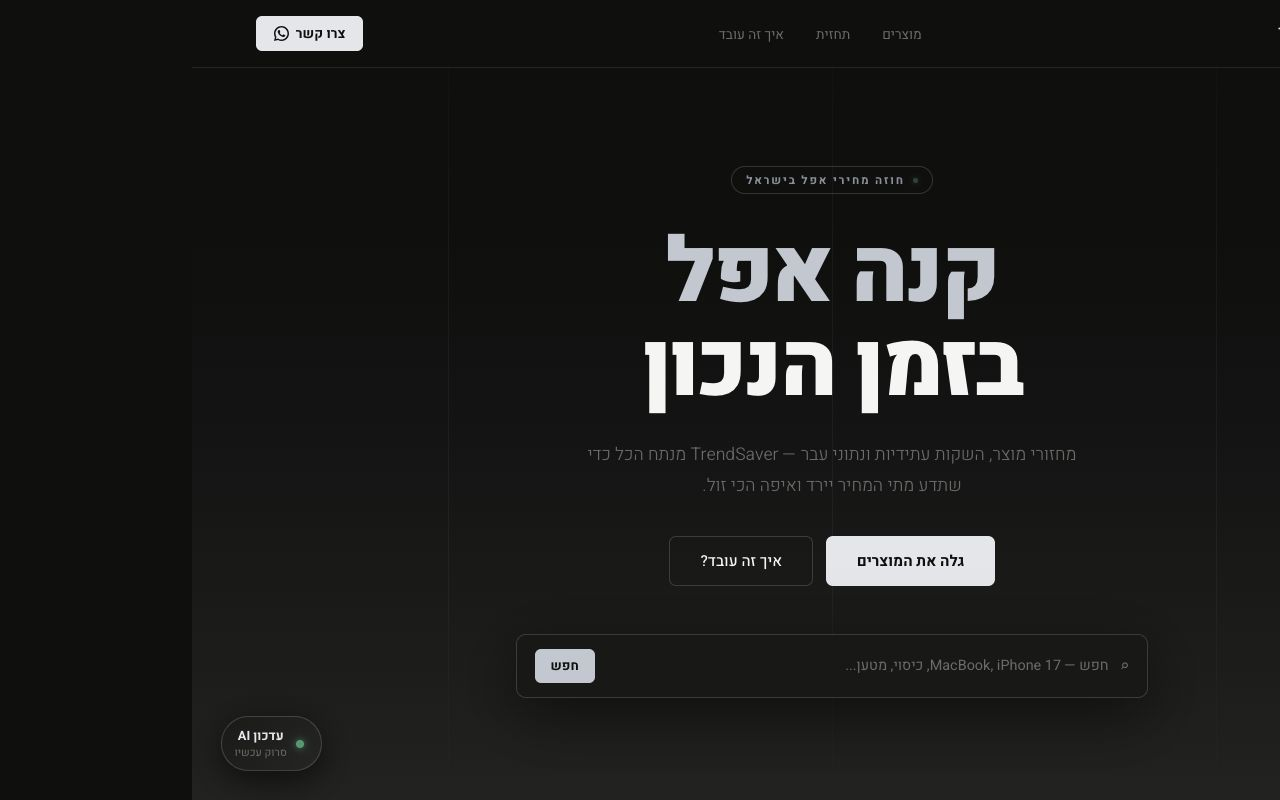
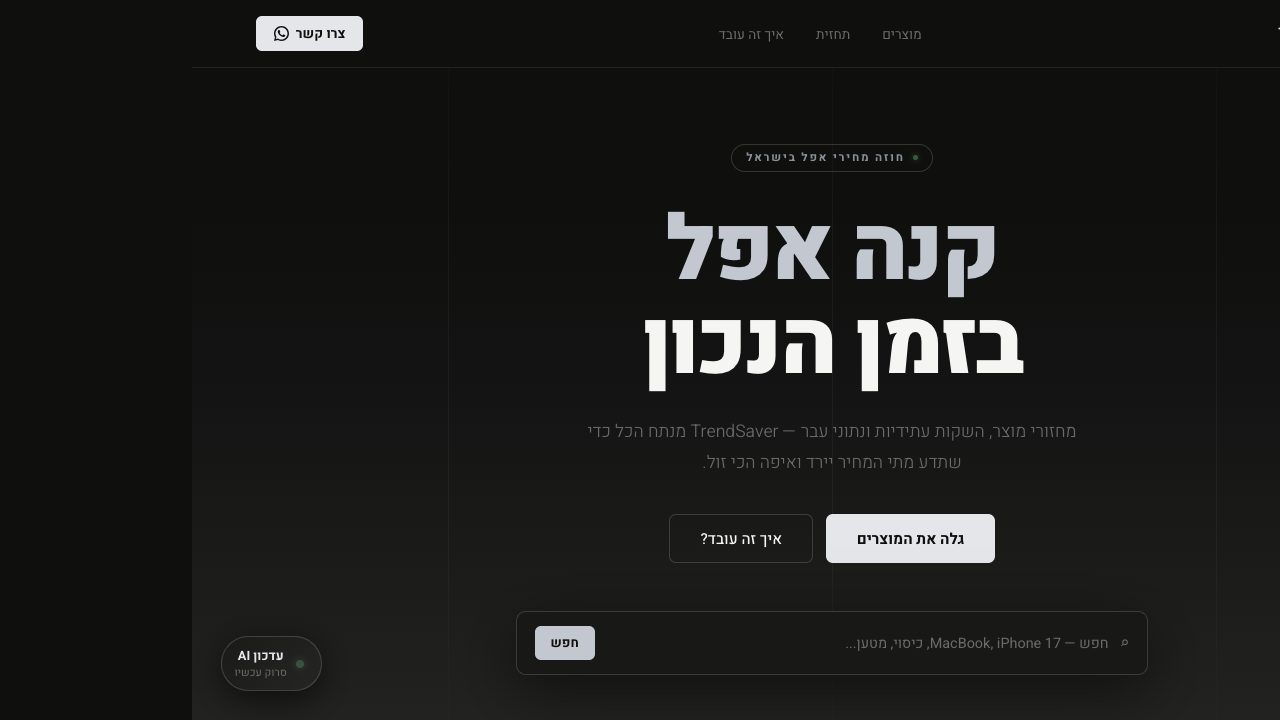
Reshoot previews at 1280x720 (16:9 classic)
Tighter hero focus, less empty space than 1280x800.

diff --git a/index.html b/index.html
@@ -3196,7 +3196,7 @@
         </div>
         <div class="proj-grid">
             <a href="https://ai-lab.co.il/build-pc/" target="_blank" rel="noopener" class="proj-card">
-                <div class="proj-preview"><img src="/project-previews/build-pc.jpg" alt="BUILD PC" loading="lazy" decoding="async" width="1280" height="800"></div>
+                <div class="proj-preview"><img src="/project-previews/build-pc.jpg" alt="BUILD PC" loading="lazy" decoding="async" width="1280" height="720"></div>
                 <div class="proj-info">
                     <div class="proj-name">🖥 BUILD PC — השווה, חסוך, שדרג</div>
                     <div class="proj-student">רואי, בן 13</div>
@@ -3204,7 +3204,7 @@
                 </div>
             </a>
             <a href="https://ai-lab.co.il/spot/" target="_blank" rel="noopener" class="proj-card">
-                <div class="proj-preview"><img src="/project-previews/spot.jpg" alt="SPOT - כל כלב ביומו" loading="lazy" decoding="async" width="1280" height="800"></div>
+                <div class="proj-preview"><img src="/project-previews/spot.jpg" alt="SPOT - כל כלב ביומו" loading="lazy" decoding="async" width="1280" height="720"></div>
                 <div class="proj-info">
                     <div class="proj-name">🐕 SPOT — כל כלב ביומו</div>
                     <div class="proj-student">מתן, בן 10</div>
@@ -3212,7 +3212,7 @@
                 </div>
             </a>
             <a href="https://ai-lab.co.il/free-movie-trailers/" target="_blank" rel="noopener" class="proj-card">
-                <div class="proj-preview"><img src="/project-previews/free-movie-trailers.jpg" alt="Free Movie Trailers" loading="lazy" decoding="async" width="1280" height="800"></div>
+                <div class="proj-preview"><img src="/project-previews/free-movie-trailers.jpg" alt="Free Movie Trailers" loading="lazy" decoding="async" width="1280" height="720"></div>
                 <div class="proj-info">
                     <div class="proj-name">🎬 Free Movie Trailers</div>
                     <div class="proj-student">תאיי, בן 12</div>
@@ -3220,7 +3220,7 @@
                 </div>
             </a>
             <a href="https://ai-lab.co.il/trendsaver/" target="_blank" rel="noopener" class="proj-card">
-                <div class="proj-preview"><img src="/project-previews/trendsaver.jpg" alt="TrendSaver" loading="lazy" decoding="async" width="1280" height="800"></div>
+                <div class="proj-preview"><img src="/project-previews/trendsaver.jpg" alt="TrendSaver" loading="lazy" decoding="async" width="1280" height="720"></div>
                 <div class="proj-info">
                     <div class="proj-name">📈 TrendSaver — קנה חכם</div>
                     <div class="proj-student">ארבל, בן 12</div>
@@ -3228,7 +3228,7 @@
                 </div>
             </a>
             <a href="https://ai-lab.co.il/nadavlego/" target="_blank" rel="noopener" class="proj-card">
-                <div class="proj-preview"><img src="/project-previews/nadavlego.jpg" alt="חגיגת לגו" loading="lazy" decoding="async" width="1280" height="800"></div>
+                <div class="proj-preview"><img src="/project-previews/nadavlego.jpg" alt="חגיגת לגו" loading="lazy" decoding="async" width="1280" height="720"></div>
                 <div class="proj-info">
                     <div class="proj-name">🧱 חגיגת לגו</div>
                     <div class="proj-student">נדב, בן 10</div>
@@ -3236,7 +3236,7 @@
                 </div>
             </a>
             <a href="https://ai-lab.co.il/hairmatch/" target="_blank" rel="noopener" class="proj-card">
-                <div class="proj-preview"><img src="/project-previews/hairmatch.jpg" alt="HairMatch" loading="lazy" decoding="async" width="1280" height="800"></div>
+                <div class="proj-preview"><img src="/project-previews/hairmatch.jpg" alt="HairMatch" loading="lazy" decoding="async" width="1280" height="720"></div>
                 <div class="proj-info">
                     <div class="proj-name">✨ HairMatch — טיפוח חכם</div>
                     <div class="proj-student">נועם, בת 13.5</div>
@@ -3244,7 +3244,7 @@
                 </div>
             </a>
             <a href="https://ai-lab.co.il/horse-fashion/" target="_blank" rel="noopener" class="proj-card">
-                <div class="proj-preview"><img src="/project-previews/horse-fashion.jpg" alt="Horse Fashion" loading="lazy" decoding="async" width="1280" height="800"></div>
+                <div class="proj-preview"><img src="/project-previews/horse-fashion.jpg" alt="Horse Fashion" loading="lazy" decoding="async" width="1280" height="720"></div>
                 <div class="proj-info">
                     <div class="proj-name">🐴 Horse Fashion</div>
                     <div class="proj-student">שיר, בת 13.5</div>
@@ -3252,7 +3252,7 @@
                 </div>
             </a>
             <a href="https://ai-lab.co.il/gamebuddy/" target="_blank" rel="noopener" class="proj-card">
-                <div class="proj-preview"><img src="/project-previews/gamebuddy.jpg" alt="GameBuddy" loading="lazy" decoding="async" width="1280" height="800"></div>
+                <div class="proj-preview"><img src="/project-previews/gamebuddy.jpg" alt="GameBuddy" loading="lazy" decoding="async" width="1280" height="720"></div>
                 <div class="proj-info">
                     <div class="proj-name">🎮 GameBuddy — שחקנים ביחד</div>
                     <div class="proj-student">אבינועם וגבריאל, בני 13.5</div>
@@ -3260,7 +3260,7 @@
                 </div>
             </a>
             <a href="https://ai-lab.co.il/tennismate/" target="_blank" rel="noopener" class="proj-card">
-                <div class="proj-preview"><img src="/project-previews/tennismate.jpg" alt="TennisMate" loading="lazy" decoding="async" width="1280" height="800"></div>
+                <div class="proj-preview"><img src="/project-previews/tennismate.jpg" alt="TennisMate" loading="lazy" decoding="async" width="1280" height="720"></div>
                 <div class="proj-info">
                     <div class="proj-name">🎾 TennisMate — מצאו שחקני טניס</div>
                     <div class="proj-student">דניאל קהן, בן 13</div>
@@ -3268,7 +3268,7 @@
                 </div>
             </a>
             <a href="https://ai-lab.co.il/drivelog/" target="_blank" rel="noopener" class="proj-card">
-                <div class="proj-preview"><img src="/project-previews/drivelog.jpg" alt="DriveLog" loading="lazy" decoding="async" width="1280" height="800"></div>
+                <div class="proj-preview"><img src="/project-previews/drivelog.jpg" alt="DriveLog" loading="lazy" decoding="async" width="1280" height="720"></div>
                 <div class="proj-info">
                     <div class="proj-name">🚗 DriveLog — ניהול שיעורי נהיגה</div>
                     <div class="proj-student">גבריאל, בן 16</div>
@@ -4271,7 +4271,7 @@
         function scaleProjectPreviews() {
             document.querySelectorAll('.proj-preview').forEach(wrap => {
                 const w = wrap.offsetWidth;
-                wrap.style.height = Math.round(w * 800 / 1280) + 'px';
+                wrap.style.height = Math.round(w * 720 / 1280) + 'px';
             });
         }
         window.addEventListener('load', scaleProjectPreviews);
